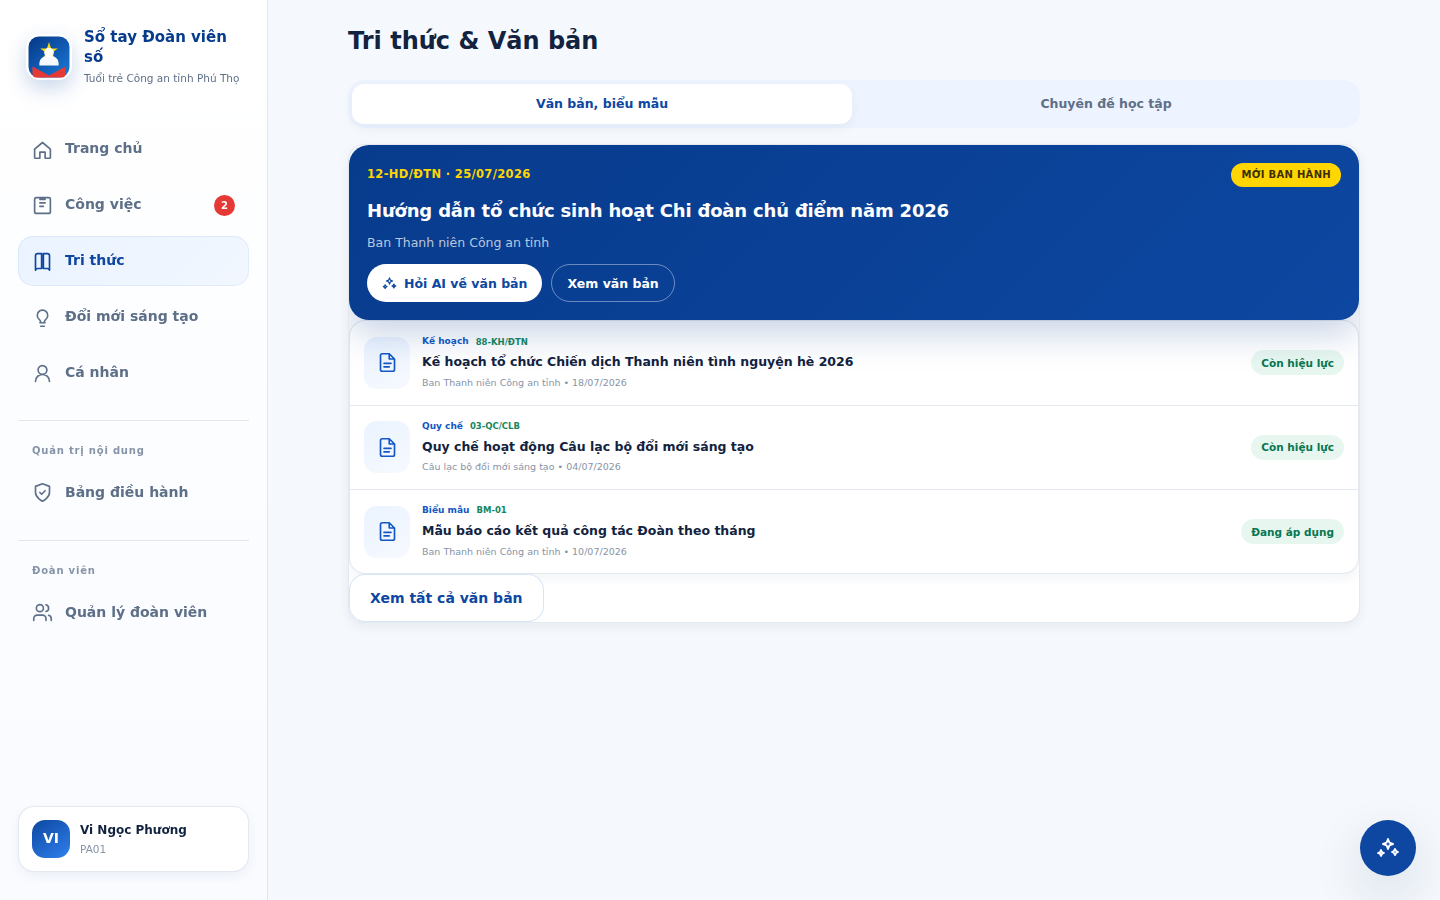
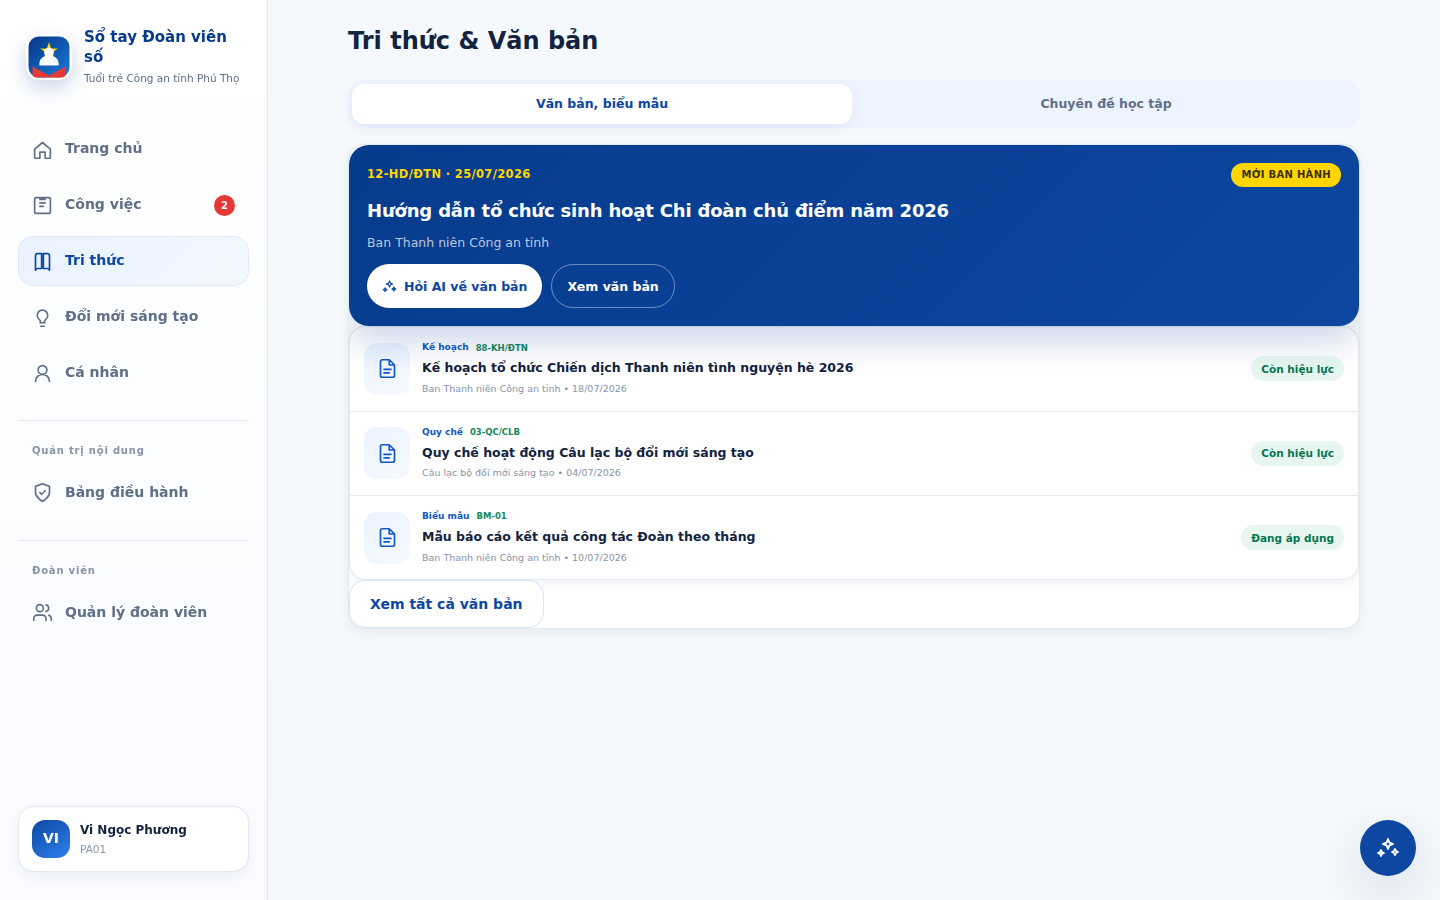
fix(ui): raise featured-document CTA touch target to 44px
.featured-document-actions a/button ("Hỏi AI về văn bản", "Xem văn bản")
measured 38px tall via getBoundingClientRect() in a real browser, below the
44x44px minimum docs/02-design-system.md itself requires (§17). Bump
min-height 38px -> 44px; no other visual change. Screenshots refreshed.

Claude-Session: https://claude.ai/code/session_01CZWoD98gg218TyVsDGv2Pw

diff --git a/src/index.css b/src/index.css
@@ -75,7 +75,7 @@
 .featured-document h3{font-size:18px;font-weight:700;line-height:1.4;letter-spacing:-.01em}
 .featured-document>p{font-size:12.5px;line-height:1.4;color:rgba(255,255,255,.72)}
 .featured-document-actions{display:flex;gap:9px;flex-wrap:wrap;margin-top:2px}
-.featured-document-actions a,.featured-document-actions button{min-height:38px;padding:0 15px;border-radius:999px;display:flex;align-items:center;gap:7px;font-size:12.5px;font-weight:600}
+.featured-document-actions a,.featured-document-actions button{min-height:44px;padding:0 15px;border-radius:999px;display:flex;align-items:center;gap:7px;font-size:12.5px;font-weight:600}
 .featured-document-actions .primary{background:var(--surface-card);color:var(--brand-800)}
 .featured-document-actions .secondary{border:1px solid rgba(255,255,255,.4);color:#fff}
 .doc-index-list{background:var(--surface-card);border:1px solid var(--border-default);border-radius:16px;box-shadow:var(--shadow-sm);overflow:hidden}

diff --git a/docs/brain/06-ai-working-log.md b/docs/brain/06-ai-working-log.md
@@ -19,6 +19,9 @@
      dùng trong `Knowledge.jsx` từ trước nhưng chưa từng có rule CSS nào (kể cả trước PR47), nên nút
      render không style, không fixed-position, đè lệch vào nội dung/bottom-nav. Đã thêm fixed
      bottom-right, hình tròn, `--brand-800`, và offset riêng cho mobile để không đè bottom-nav.
+  4. `src/index.css`: `.featured-document-actions a,button{min-height:38px}` → `44px` — CTA "Hỏi AI
+     về văn bản"/"Xem văn bản" (class mới của PR47) thấp hơn ngưỡng 44×44px accessibility mà chính
+     `docs/02-design-system.md` §17 yêu cầu; đo bằng `getBoundingClientRect()` qua browser thật.
 - **File đã sửa:** `src/pages/Home.jsx`, `src/index.css`.
 - **Ảnh chụp:** `docs/screenshots/ui-modern-civic-glass/{home,work,knowledge}-{desktop,mobile}.png`
   (Chromium thật, dev server exact-head, không chỉnh sửa sau khi chụp).
